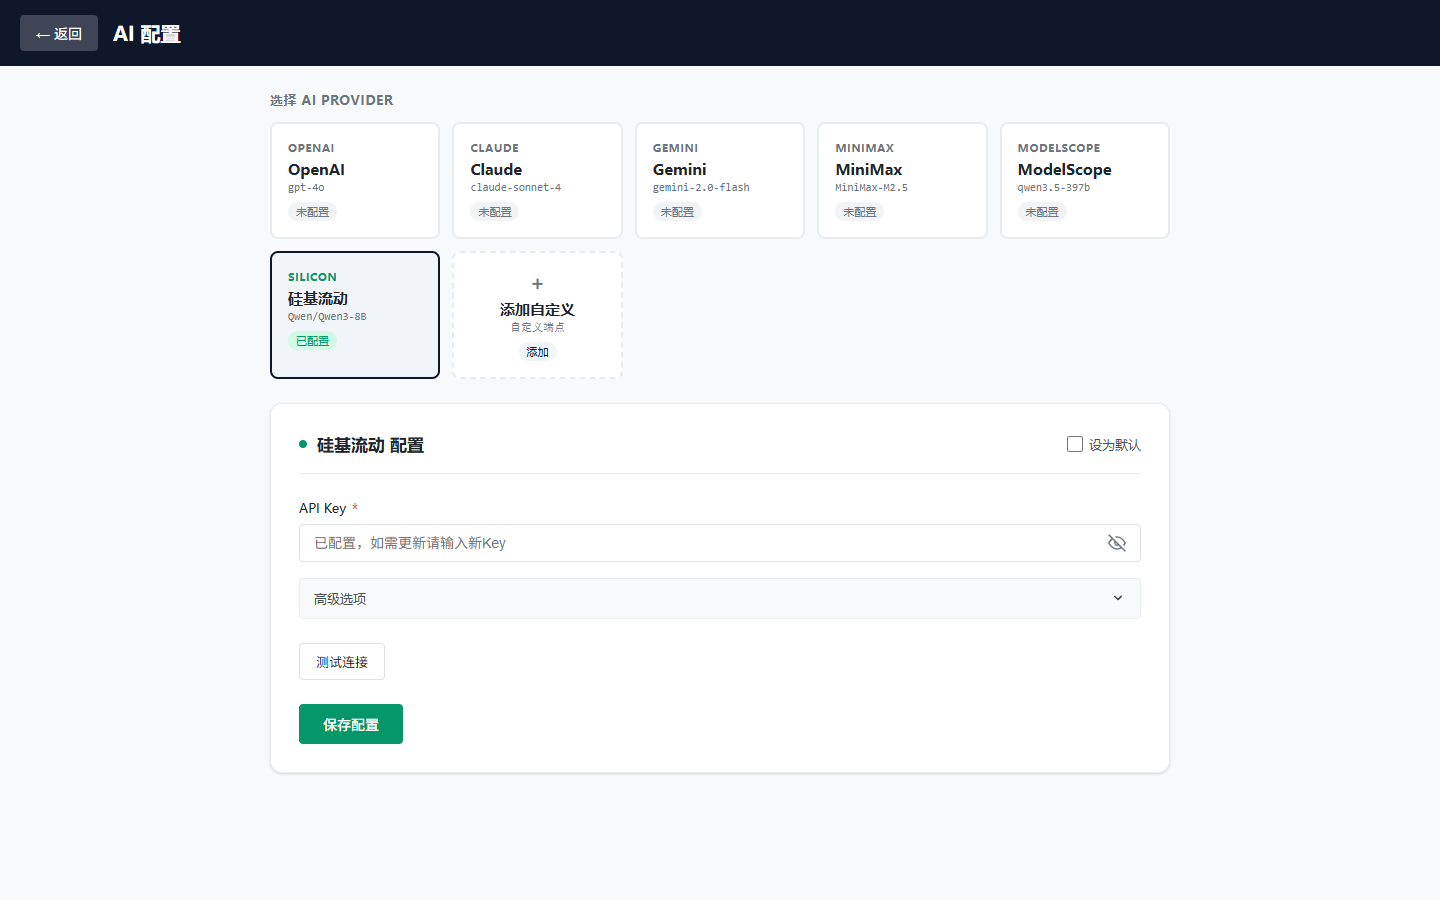
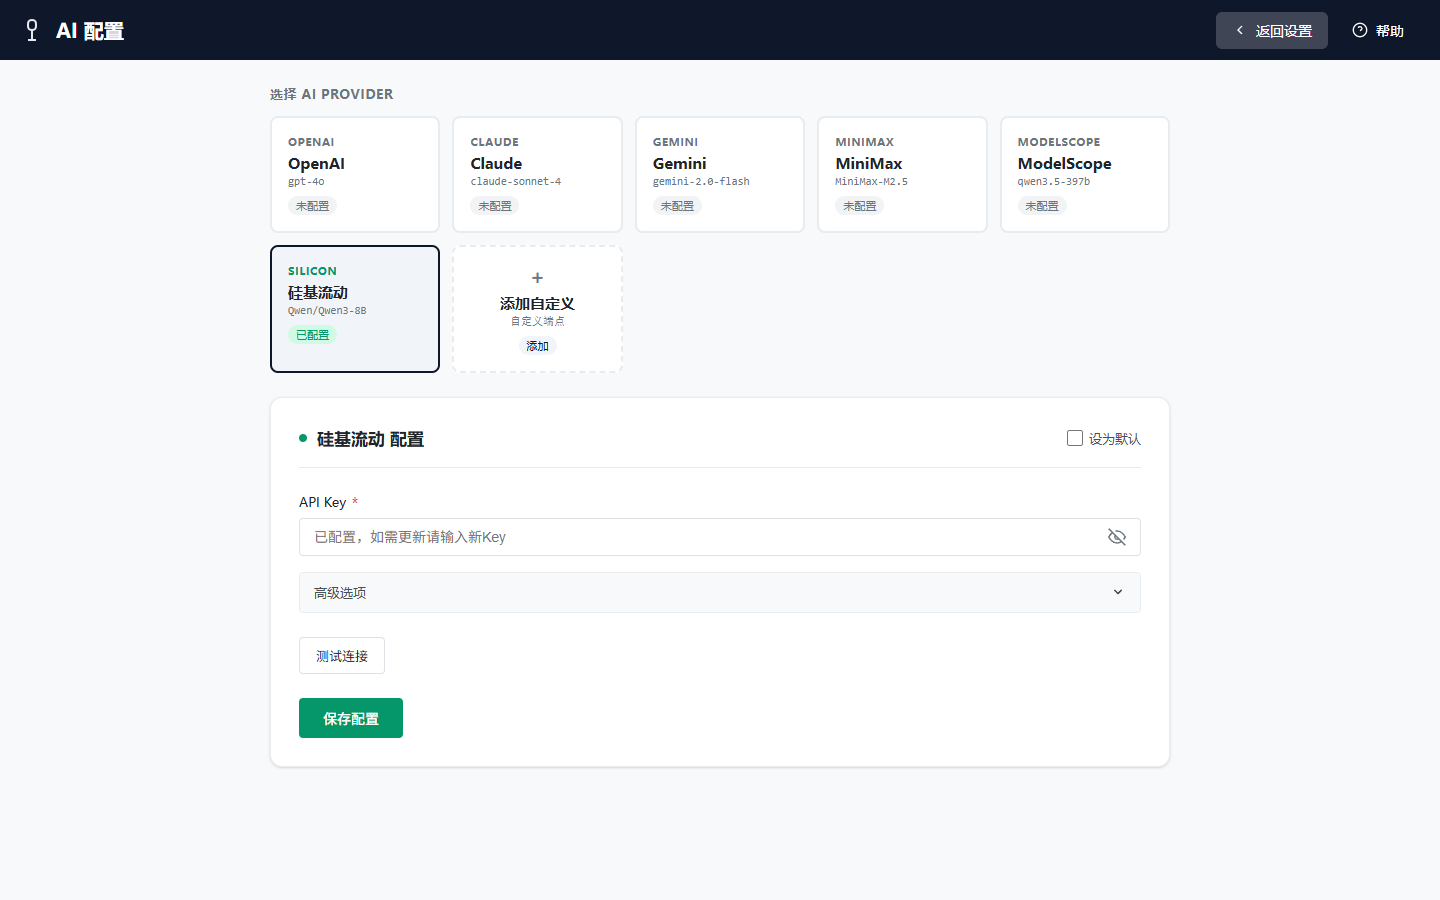
fix: update AI settings page header with navigation buttons
- Add "返回设置" and "帮助" links to AI settings header
- Add header icon (AI logo) to match other pages
- Update header CSS to use consistent button styles

diff --git a/frontend/src/views/AiSettingsView.vue b/frontend/src/views/AiSettingsView.vue
@@ -3,8 +3,28 @@
     <!-- 顶部导航 -->
     <header class="header">
       <div class="header-left">
-        <button class="back-btn" @click="$router.back()">← 返回</button>
+        <svg class="header-icon" viewBox="0 0 24 24" fill="none" stroke="currentColor" stroke-width="2">
+          <path d="M12 2a4 4 0 0 1 4 4v2a4 4 0 0 1-8 0V6a4 4 0 0 1 4-4z"/>
+          <path d="M12 12v10"/>
+          <path d="M8 22h8"/>
+        </svg>
         <h1>AI 配置</h1>
+      </div>
+      <div class="header-right">
+        <router-link to="/settings" class="header-btn header-btn-secondary">
+          <svg viewBox="0 0 24 24" fill="none" stroke="currentColor" stroke-width="2">
+            <polyline points="15 18 9 12 15 6"/>
+          </svg>
+          返回设置
+        </router-link>
+        <router-link to="/help" class="header-btn header-btn-ghost">
+          <svg viewBox="0 0 24 24" fill="none" stroke="currentColor" stroke-width="2">
+            <circle cx="12" cy="12" r="10"/>
+            <path d="M9.09 9a3 3 0 0 1 5.83 1c0 2-3 3-3 3"/>
+            <line x1="12" y1="17" x2="12.01" y2="17"/>
+          </svg>
+          帮助
+        </router-link>
       </div>
     </header>
 
@@ -622,7 +642,8 @@ onMounted(() => {
   display: flex;
   justify-content: space-between;
   align-items: center;
-  padding: 15px 20px;
+  padding: 0 var(--spacing-5);
+  height: var(--header-height);
   background: var(--color-primary);
   color: var(--color-text-on-primary);
 }
@@ -630,7 +651,63 @@ onMounted(() => {
 .header-left {
   display: flex;
   align-items: center;
-  gap: 15px;
+  gap: var(--spacing-3);
+}
+
+.header-icon {
+  width: 24px;
+  height: 24px;
+  opacity: 0.9;
+}
+
+.header-right {
+  display: flex;
+  align-items: center;
+  gap: var(--spacing-2);
+}
+
+.header-btn {
+  display: inline-flex;
+  align-items: center;
+  gap: var(--spacing-2);
+  padding: var(--spacing-2) var(--spacing-4);
+  border-radius: var(--radius-md);
+  font-size: var(--font-size-sm);
+  font-weight: var(--font-weight-medium);
+  text-decoration: none;
+  cursor: pointer;
+  transition: background var(--transition-fast), opacity var(--transition-fast);
+  border: none;
+}
+
+.header-btn svg {
+  width: 16px;
+  height: 16px;
+}
+
+.header-btn-secondary {
+  background: var(--color-header-btn-bg);
+  color: var(--color-text-on-primary);
+}
+
+.header-btn-secondary:hover {
+  background: var(--color-header-btn-hover);
+  opacity: 0.9;
+}
+
+.header-btn-ghost {
+  background: transparent;
+  color: var(--color-text-on-primary);
+}
+
+.header-btn-ghost:hover {
+  background: var(--color-header-btn-bg);
+}
+
+.header h1 {
+  margin: 0;
+  font-size: var(--font-size-xl);
+  font-weight: var(--font-weight-semibold);
 }
 
 .back-btn {
@@ -654,14 +731,10 @@ onMounted(() => {
 .delete-btn:focus-visible,
 .confirm-btn:focus-visible,
 .cancel-btn:focus-visible,
-.provider-card:focus-visible {
+.provider-card:focus-visible,
+.header-btn:focus-visible {
   outline: 2px solid var(--color-accent);
   outline-offset: 2px;
-}
-
-.header h1 {
-  margin: 0;
-  font-size: 20px;
 }
 
 .main-content {
